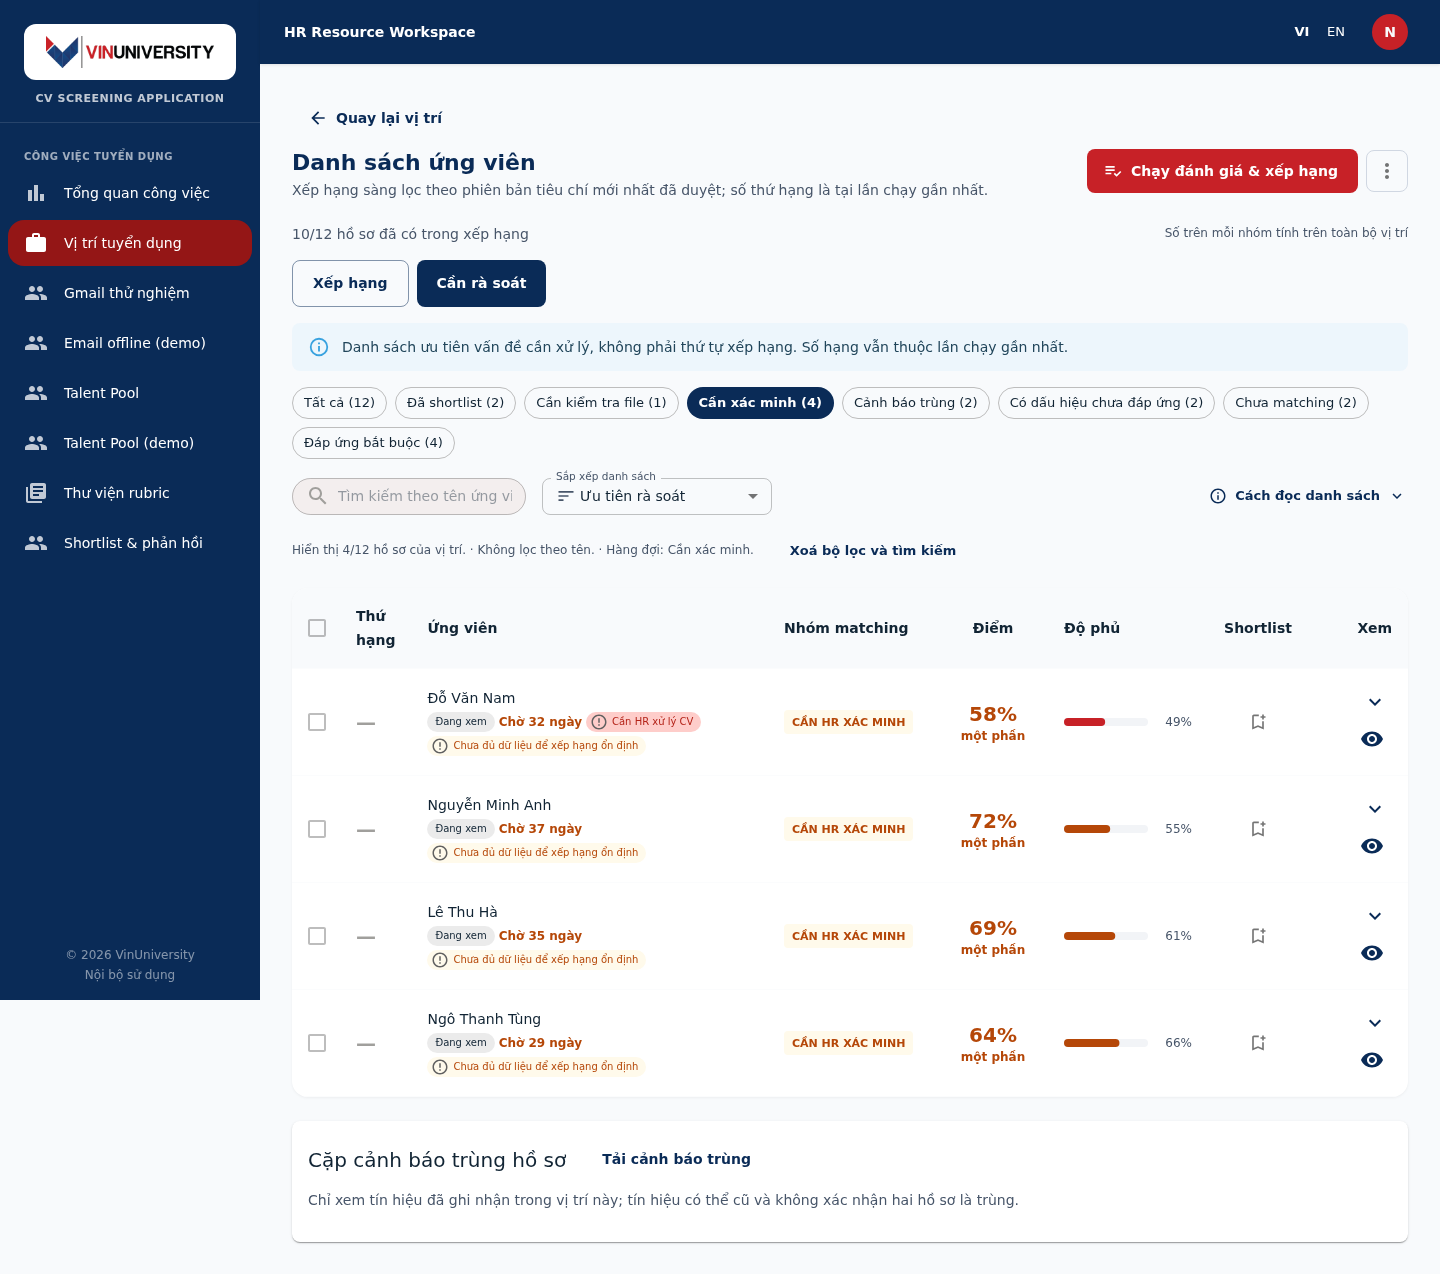
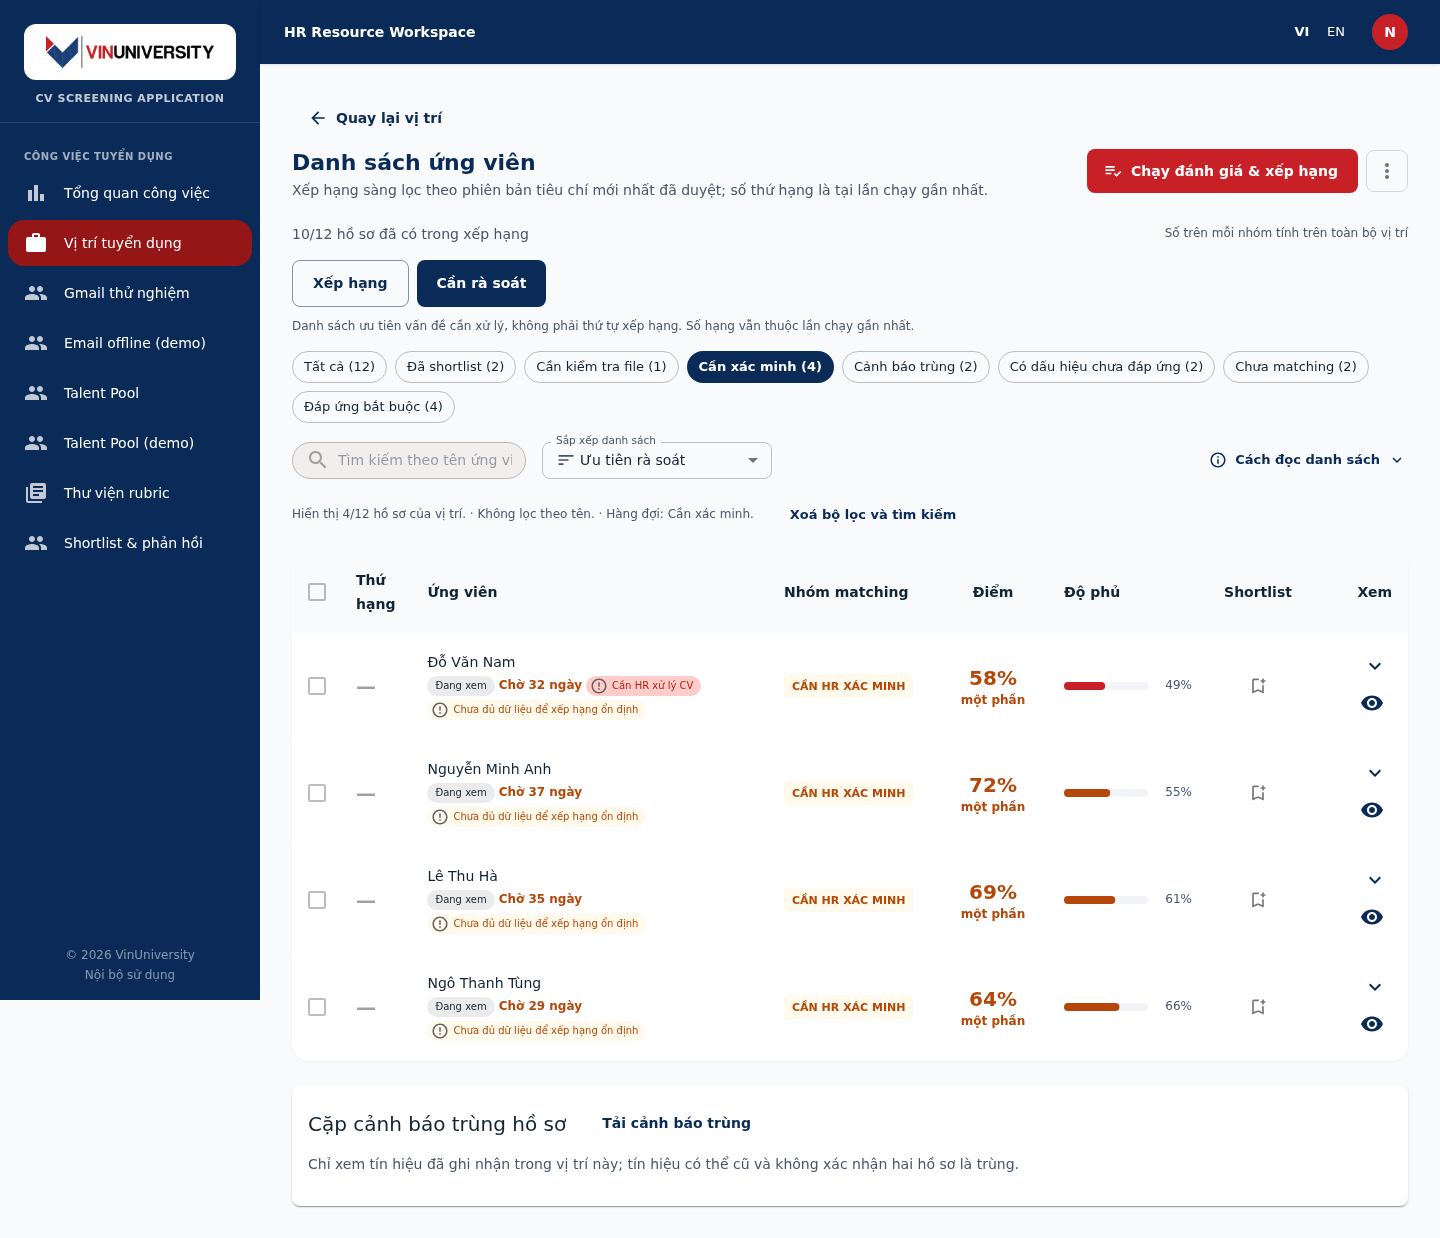
polish(ranking,settings): theo quyết định review — chú thích thay alert, menu có nhãn, lưu có xác nhận
Ba điểm anh nêu cần kiểm trước khi sang UX-02, sửa luôn vì đều nhỏ và
đều là chỗ người dùng thật sẽ vấp:

1. Alert chế độ xem -> dòng chú thích ngay dưới hai nút (bỏ nền xanh,
   icon, chữ nhỏ). Nội dung nghiệp vụ vẫn nhìn thấy được, không đưa vào
   tooltip. Nhờ vậy dòng dữ liệu đầu 669 -> 633px, tức là đã vào dưới mốc
   640 mà không bỏ thông tin nào.
2. Menu ⋮: aria-label đổi thành "Hành động khác: Làm mới, Chia sẻ
   Shortlist" + tooltip nêu đúng hai thao tác. Trước đây chỉ có icon và
   aria-label "Hành động khác", HR phải bấm mới biết bên trong có gì.
3. Settings save: xác nhận ngay tại dòng vừa lưu ("Đã lưu lúc HH:MM")
   trong vùng aria-live=polite, tự xoá khi sửa lại; lỗi từ server hiện
   thành alert và không để lại dấu đã lưu. Trước đây chỉ có alert ở đầu
   trang, HR lưu thẻ thứ hai thì không thấy.

Test: e2e ranking-compact thêm phần bàn phím cho "Cách đọc" (Enter mở,
Enter đóng, aria-expanded, focus ở lại nút), kiểm tooltip menu, kiểm câu
chú thích đổi theo chế độ và không còn role=alert. settings-mock thêm
phần xác nhận tại dòng, xoá dấu khi sửa lại, và lỗi 400 không để lại dấu
thành công.

Đo lại trên app thật: dòng đầu 896 -> 633px, đầu bảng 815 -> 552,
pageHeight 1500 -> 1238, chip lọc 8 -> 8. Ảnh mới 06..09 cho ba điểm kiểm.

11/11 bộ e2e mock pass, unit 27/27, i18n 3/3, tsc/lint sạch.

diff --git a/frontend/src/app/admin/HrSettings.tsx b/frontend/src/app/admin/HrSettings.tsx
@@ -26,10 +26,13 @@ interface Setting {
 }
 
 export default function HrSettings() {
-  const { t } = useI18n();
+  const { t, dateLocale } = useI18n();
   const [settings, setSettings] = useState<Setting[] | null>(null);
   const [drafts, setDrafts] = useState<Record<string, string>>({});
   const [savingKey, setSavingKey] = useState<string | null>(null);
+  // Per-row confirmation: the alert at the top of the page is out of view when HR
+  // saves the second card, and "did it save?" must never be a guess.
+  const [savedAt, setSavedAt] = useState<Record<string, string>>({});
   const [error, setError] = useState<string | null>(null);
   const [success, setSuccess] = useState<string | null>(null);
   const [loading, setLoading] = useState(true);
@@ -65,6 +68,7 @@ export default function HrSettings() {
       setSavingKey(setting.key); setError(null); setSuccess(null);
       await adminApi.updateSetting(setting.key, value);
       await load();
+      setSavedAt(previous => ({ ...previous, [setting.key]: new Date().toLocaleTimeString(dateLocale) }));
       setSuccess(t('Đã lưu “{0}”: {1} ngày. Dashboard và danh sách ứng viên dùng con số này ngay lần tải sau.', setting.label, value));
     } catch (err: any) {
       setError(err.response?.data?.detail || t('Không lưu được cài đặt.'));
@@ -80,7 +84,9 @@ export default function HrSettings() {
   return (
     <Box>
       {error && <Alert severity="error" sx={{ mb: 2 }} onClose={() => setError(null)}>{error}</Alert>}
-      {success && <Alert severity="success" sx={{ mb: 2 }} onClose={() => setSuccess(null)}>{success}</Alert>}
+      <Box aria-live="polite">
+        {success && <Alert severity="success" sx={{ mb: 2 }} onClose={() => setSuccess(null)}>{success}</Alert>}
+      </Box>
       <Alert severity="info" sx={{ mb: 3 }}>
         {t('Đây là những con số nghiệp vụ HR tự đặt, không phải hằng số kỹ thuật. Thay đổi có hiệu lực ngay và được ghi vào nhật ký kiểm toán.')}
       </Alert>
@@ -105,7 +111,15 @@ export default function HrSettings() {
                     size="small"
                     label={t('Số ngày')}
                     value={draft}
-                    onChange={event => setDrafts({ ...drafts, [setting.key]: event.target.value })}
+                    onChange={event => {
+                      setDrafts({ ...drafts, [setting.key]: event.target.value });
+                      setSavedAt(previous => {
+                        if (!(setting.key in previous)) return previous;
+                        const next = { ...previous };
+                        delete next[setting.key];
+                        return next;
+                      });
+                    }}
                     error={dirty && invalid}
                     helperText={dirty && invalid ? t('Ngoài khoảng cho phép') : ' '}
                     inputProps={{ min: setting.min, max: setting.max, step: 1, 'aria-label': `${t(setting.label)} — ${t('Số ngày')}` }}
@@ -118,6 +132,13 @@ export default function HrSettings() {
                     disabled={!dirty || invalid || savingKey !== null}
                     sx={{ mt: 0.5 }}
                   >{savingKey === setting.key ? t('Đang lưu...') : t('Lưu')}</Button>
+                  <Box role="status" aria-live="polite" sx={{ minWidth: 96, mt: 1.5 }}>
+                    {savedAt[setting.key] && (
+                      <Typography variant="caption" sx={{ color: '#067647', fontWeight: 600, display: 'block' }}>
+                        {t('Đã lưu lúc {0}', savedAt[setting.key])}
+                      </Typography>
+                    )}
+                  </Box>
                 </Box>
               </CardContent>
             </Card>

diff --git a/frontend/src/app/positions/[id]/applicants/page.tsx b/frontend/src/app/positions/[id]/applicants/page.tsx
@@ -540,15 +540,20 @@ export default function ApplicantsRankingPage() {
           >
             {assessing ? t("Đang đánh giá...") : t("Chạy đánh giá & xếp hạng")}
           </Button>
-          <IconButton
-            aria-label={t("Hành động khác")}
-            aria-haspopup="menu"
-            aria-expanded={Boolean(actionsMenuAnchor)}
-            onClick={event => setActionsMenuAnchor(event.currentTarget)}
-            sx={{ border: '1px solid #D0D7E2', borderRadius: 1 }}
-          >
-            <MoreVertIcon />
-          </IconButton>
+          {/* Ba chấm một mình thì HR phải bấm mới biết bên trong có gì, nên có
+              tooltip nêu đúng hai thao tác ẩn. Tooltip chỉ để gợi ý; nhãn cho
+              trình đọc màn hình vẫn là aria-label. */}
+          <Tooltip title={t("Làm mới và Chia sẻ Shortlist")} arrow>
+            <IconButton
+              aria-label={t("Hành động khác: Làm mới, Chia sẻ Shortlist")}
+              aria-haspopup="menu"
+              aria-expanded={Boolean(actionsMenuAnchor)}
+              onClick={event => setActionsMenuAnchor(event.currentTarget)}
+              sx={{ border: '1px solid #D0D7E2', borderRadius: 1 }}
+            >
+              <MoreVertIcon />
+            </IconButton>
+          </Tooltip>
           <Menu
             anchorEl={actionsMenuAnchor}
             open={Boolean(actionsMenuAnchor)}
@@ -596,8 +601,19 @@ export default function ApplicantsRankingPage() {
         <Button variant={sort === 'RANK' ? 'contained' : 'outlined'} aria-pressed={sort === 'RANK'} onClick={() => { setQueue('ALL'); setSort('RANK'); }}>{t('Xếp hạng')}</Button>
         <Button variant={sort === 'REVIEW_PRIORITY' ? 'contained' : 'outlined'} aria-pressed={sort === 'REVIEW_PRIORITY'} onClick={() => { setQueue('ALL'); setSort('REVIEW_PRIORITY'); }}>{t('Cần rà soát')}</Button>
       </Box>
-      {sort === 'REVIEW_PRIORITY' && <Alert severity="info" sx={{ mb: 2 }}>{t('Danh sách ưu tiên vấn đề cần xử lý, không phải thứ tự xếp hạng. Số hạng vẫn thuộc lần chạy gần nhất.')}</Alert>}
-      {sort === 'RANK' && <Alert severity="info" sx={{ mb: 2 }}>{t('Sắp theo thứ hạng của lần chạy gần nhất; hồ sơ chưa có hạng được đưa xuống cuối.')}</Alert>}
+      {/* Câu giải thích chế độ xem phải nhìn thấy ngay dưới hai nút: đây là
+          thông tin nghiệp vụ, không phải chi tiết phụ, nên không đưa vào tooltip.
+          Bỏ nền alert và icon để nó thành một dòng chú thích, đỡ chiếm chiều cao. */}
+      <Typography
+        variant="caption"
+        color="text.secondary"
+        data-testid="sort-explanation"
+        sx={{ display: 'block', mb: 2, mt: -0.5 }}
+      >
+        {sort === 'REVIEW_PRIORITY'
+          ? t('Danh sách ưu tiên vấn đề cần xử lý, không phải thứ tự xếp hạng. Số hạng vẫn thuộc lần chạy gần nhất.')
+          : t('Sắp theo thứ hạng của lần chạy gần nhất; hồ sơ chưa có hạng được đưa xuống cuối.')}
+      </Typography>
       {/* Review queues and filters */}
       <QueueFilterChips value={queue} counts={queueCounts} onChange={setQueue} />
       <Box sx={{ display: 'flex', gap: 2, mb: 3, alignItems: 'center', flexWrap: 'wrap' }}>

diff --git a/doc/ui-review/r6/README.md b/doc/ui-review/r6/README.md
@@ -12,6 +12,7 @@ Mọi ảnh đều chụp từ **ứng dụng thật** (production build, mock A
 | `after/01-dashboard.png` … `after/03-candidate-review.png` | Ứng dụng **sau** đợt này, cùng mock, cùng viewport |
 | `after/04-hr-settings-desktop.png` | Màn Cài đặt HR mới, 1440×1000 |
 | `after/05-hr-settings-mobile.png` | Cùng màn, 390×844 |
+| `after/06-header-menu-closed.png` … `after/09-how-to-read-open.png` | Ba điểm cần kiểm: menu đóng, tooltip, menu mở, khối "Cách đọc" mở |
 
 `before/` không có màn Cài đặt vì trước đợt này **chưa có** màn đó.
 
@@ -23,10 +24,10 @@ nên bảng số đo cũ không phải số ước lượng.
 
 | Chỉ số | Trước | Sau | Ghi chú |
 | --- | --- | --- | --- |
-| `firstRowOffsetPx` — dòng dữ liệu đầu tiên | **896** | **669** | −227px; ở 900px màn hình thấy 2 dòng |
-| `tableHeaderOffsetPx` — đầu bảng | 815 | 588 | −227px |
+| `firstRowOffsetPx` — dòng dữ liệu đầu tiên | **896** | **633** | −263px; ở 900px màn hình thấy 3 dòng |
+| `tableHeaderOffsetPx` — đầu bảng | 815 | 552 | −263px |
 | `filterControlsAboveTable` — đích nhấn trước bảng | **12** | **6** | xem cảnh báo bên dưới |
-| `pageHeight` | 1500 | 1274 | −226px |
+| `pageHeight` | 1500 | 1238 | −262px |
 | `scrollPages` | 1.67 | 1.42 | |
 | `chipsWithCounts` — chip lọc kèm số | 8 | **8** | không mất nhóm lọc nào |
 
@@ -44,6 +45,29 @@ Số thật trước R6 là **9** đích nhấn phía trên bảng (2 nút chế
 Nghĩa là mức cải thiện thật **nhỏ hơn** con số 12→8 mà đề xuất dự kiến, nhưng hướng
 thay đổi đúng. Em đã sửa phép đo trong `frontend/tests/ui-ux-metrics.cjs` để lần sau
 không tái diễn; số cũ trong báo cáo UX vẫn giữ nguyên để đối chiếu lịch sử.
+
+## Trạng thái: đã chốt sau vòng review
+
+Anh đã xem ảnh và chốt **R6 hoàn tất**, không mở thêm vòng chỉnh sửa giao diện.
+Ba quyết định:
+
+1. **Giữ 633px, không ép xuống 640.** Mục tiêu 640px là tham khảo, không phải tiêu chí.
+   Không bỏ hai nút chế độ xem (điều hướng nghiệp vụ), không gộp `10/12 hồ sơ` vào tiêu đề
+   (chỉ số tiến độ riêng).
+2. **Alert chế độ xem → dòng chú thích**, không chuyển thành tooltip: nội dung nghiệp vụ
+   phải nhìn thấy được, người dùng mới không phải đi khám phá. Nền xanh và icon bỏ đi,
+   chữ nhỏ lại — một dòng ngay dưới hai nút. Phần giải thích dài vẫn ở `Cách đọc danh sách`.
+   Chính thay đổi này đưa dòng đầu từ **669 → 633px**, tức là vào dưới mốc 640 mà không
+   phải bỏ thông tin nào.
+3. **Không khôi phục hai thẻ KPI trùng chip.** Giữ hai số có nghĩa khác nhau.
+
+Ba điểm anh nêu cần kiểm trước khi sang UX-02 đều đã kiểm **bằng test**, không chỉ bằng mắt:
+
+| Điểm | Cách kiểm | Ảnh |
+| --- | --- | --- |
+| Menu `⋮` có được nhận biết | `aria-label` nay là "Hành động khác: Làm mới, Chia sẻ Shortlist" + tooltip nêu đúng hai thao tác; e2e bắt buộc hover thấy tooltip và Enter mở được menu | `06`, `07`, `08` |
+| `Cách đọc danh sách` — mở/đóng, bàn phím | e2e: focus → Enter mở → Enter đóng, `aria-expanded` đổi đúng, focus ở lại nút để Tab tiếp tục hợp lý, nội dung nghiệp vụ còn nguyên | `09` |
+| Settings save — phản hồi thành công/lỗi/đang lưu | Xác nhận **ngay tại dòng vừa lưu** ("Đã lưu lúc HH:MM") trong vùng `aria-live="polite"`, tự xoá khi sửa lại; nút đổi thành "Đang lưu..."; lỗi từ server hiện thành alert và **không** để lại dấu đã lưu | `04`, `05` |
 
 ## Ba thay đổi đã làm, và một chỗ em không làm theo đề xuất
 
@@ -97,12 +121,12 @@ node tests/settings-screenshots.cjs ../doc/ui-review/r6/after
 git stash && git checkout 22888b4 -- . && npm run build   # rồi chụp vào before/
 ```
 
-## Câu hỏi cho GPT review
+## Ba câu hỏi cũ — đã có quyết định
 
-1. Dòng đầu ở 669px (mục tiêu đề xuất là ≤640) — có đáng ép thêm không, và nếu có thì
-   lấy từ đâu: bỏ hẳn 2 nút chế độ xem (đã có trong ô "Sắp xếp"), hay gộp luôn dòng
-   "10/12 hồ sơ đã có trong xếp hạng" vào tiêu đề?
-2. Alert giải thích chế độ xem ("Danh sách ưu tiên vấn đề cần xử lý…") vẫn chiếm 48px
-   mỗi lần đổi chế độ. Có nên đổi thành tooltip trên nút chế độ xem?
-3. Việc bỏ hai thẻ KPI: thông tin có còn dễ thấy không, hay nên giữ "Cần HR xác minh"
-   dạng số ngay trên dòng `10/12`?
+1. ~~Có ép 633px xuống 640?~~ **Không ép.** Giữ nguyên, 640 chỉ là tham khảo.
+2. ~~Alert chế độ xem thành tooltip?~~ **Không.** Đã thành dòng chú thích nhìn thấy được,
+   và nhờ vậy dòng đầu xuống **633px**.
+3. ~~Bỏ hai thẻ KPI có mất thông tin?~~ **Không mất.** Giữ hai số khác nghĩa, bỏ hai thẻ
+   trùng chip.
+
+Tiếp theo: **UX-02 (Candidate Review)**.
